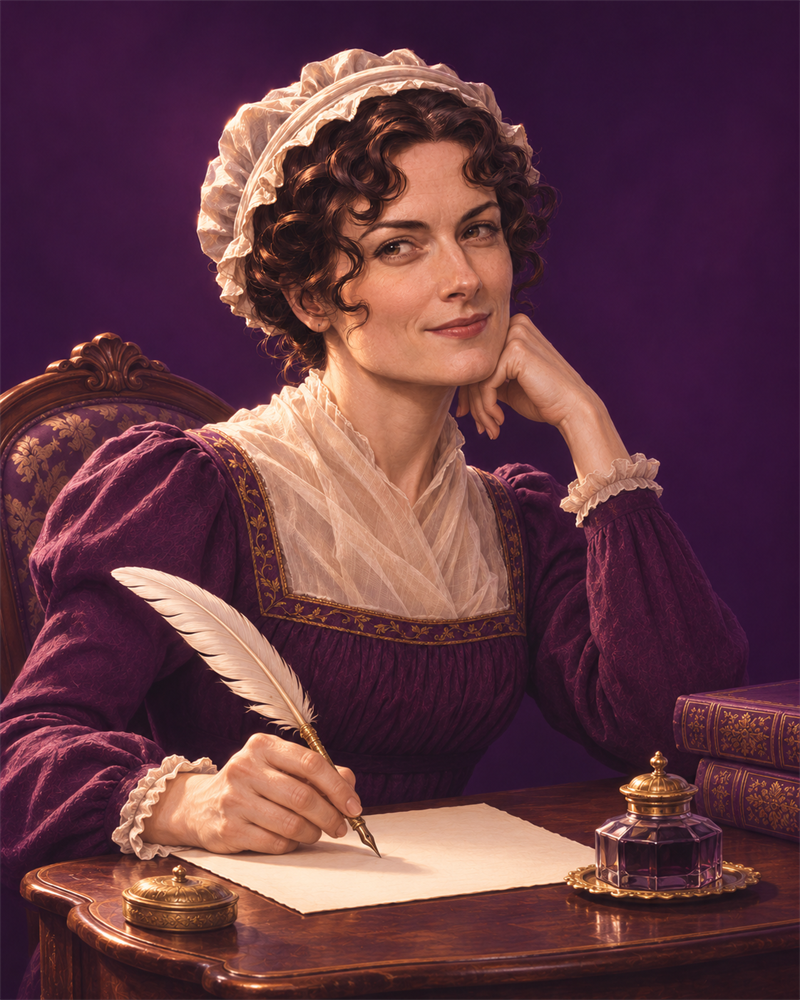
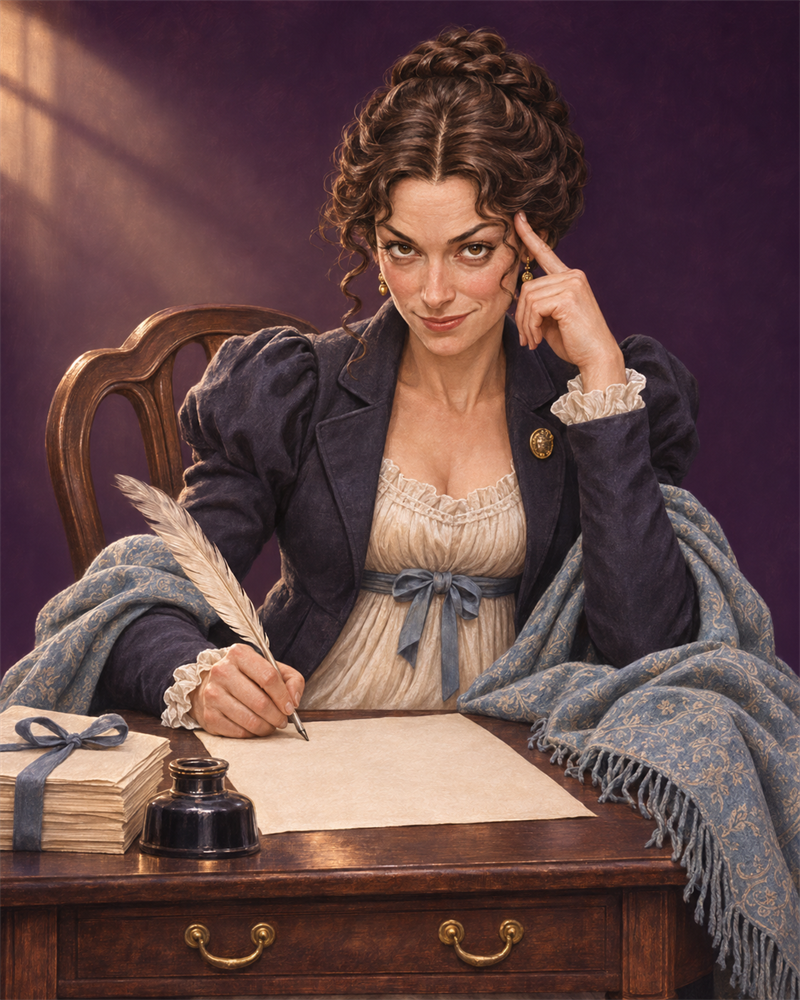
Redesign Austen portraits with distinct stage poses

diff --git a/docs/austen-stages-v2-20261107/prompts.md b/docs/austen-stages-v2-20261107/prompts.md
@@ -1,0 +1,47 @@
+# 제인 오스틴 단계별 일러스트 v2
+
+제작 도구: 내장 image_gen. 캐릭터시트의 얼굴·의상·포즈를 참고하여 개별 생성했습니다.
+
+## portrait-austen.png
+
+Use case: illustration-story.
+Asset type: ONE individual character portrait for a literary fandom app, vertical 4:5, target 800x1000, not a collage.
+Input image 1: CHARACTER IDENTITY, COSTUME AND PAINTING STYLE reference. The six poses all depict the SAME woman. Match her specific recognizable face, adult age around 35, chestnut-dark brown braided updo with curled tendrils, arched expressive brows, warm brown eyes, elegant narrow face and playful intelligent attitude. She has NO CAP.
+Costume invariants: fitted dark navy cropped Regency jacket with puffed shoulders and small plain gold brooch, modest cream empire-waist dress with softly ruffled covered neckline, muted blue ribbon at high waist, pale dusty-blue patterned shawl draped over forearms. Match reference costume, do not use a plum dress or cream bonnet.
+Art: premium semi-realistic hand-painted collectible character illustration, clearly illustrated and subtly stylized rather than photograph; same painterly finish as reference. Dark plum #2A1147 background with violet shadows and restrained warm cream/antique gold light, quieter than the character.
+Composition: one person alone, medium portrait from top of head to hips or knees, entire head visible, face centered horizontally with eye line about 32 percent down. Keep face large enough for small avatar, hands and key prop visible. Head, torso angle, hand gesture and facial expression must have a decisive specific silhouette. Do not default to the same frontal bust and subtle smile.
+Constraints: no text, no letters, numbers or pseudo-writing on any paper or book. No signatures, watermark, logos, panel borders or UI. Natural hands. Fully clothed, non-sexual, friendly intellectual relationship only.
+Scene and expression: Stage 0: guarded literary observer, BEFORE familiarity. Reinterpret the TOP LEFT sheet pose. STANDING in a crisp upright three-quarter pose, left arm holds an OPEN blank dark green book at chest height, right index finger rests thoughtfully on cheek, other fingers gently curled. Chin a little lifted, one eyebrow distinctly raised, closed mouth with skeptical analytical expression and a cool measuring sideways glance toward the viewer. Lips NOT smiling warmly. Shoulders composed and reserved. Torso slightly turned toward image right while head turns to viewer. Soft cool window light. Minimal plain backdrop. Clear book-and-finger silhouette, no desk, no fan, no letter.
+
+## portrait-austen-stage1.png
+
+Use case: illustration-story.
+Asset type: ONE individual character portrait for a literary fandom app, vertical 4:5, target 800x1000, not a collage.
+Input image 1: CHARACTER IDENTITY, COSTUME AND PAINTING STYLE reference. The six poses all depict the SAME woman. Match her specific recognizable face, adult age around 35, chestnut-dark brown braided updo with curled tendrils, arched expressive brows, warm brown eyes, elegant narrow face and playful intelligent attitude. She has NO CAP.
+Costume invariants: fitted dark navy cropped Regency jacket with puffed shoulders and small plain gold brooch, modest cream empire-waist dress with softly ruffled covered neckline, muted blue ribbon at high waist, pale dusty-blue patterned shawl draped over forearms. Match reference costume, do not use a plum dress or cream bonnet.
+Art: premium semi-realistic hand-painted collectible character illustration, clearly illustrated and subtly stylized rather than photograph; same painterly finish as reference. Dark plum #2A1147 background with violet shadows and restrained warm cream/antique gold light, quieter than the character.
+Composition: one person alone, medium portrait from top of head to hips or knees, entire head visible, face centered horizontally with eye line about 32 percent down. Keep face large enough for small avatar, hands and key prop visible. Head, torso angle, hand gesture and facial expression must have a decisive specific silhouette. Do not default to the same frontal bust and subtle smile.
+Constraints: no text, no letters, numbers or pseudo-writing on any paper or book. No signatures, watermark, logos, panel borders or UI. Natural hands. Fully clothed, non-sexual, friendly intellectual relationship only.
+Scene and expression: Stage 1: acknowledges the reader with witty challenge. Reinterpret the BOTTOM LEFT sheet pose. SEATED BEHIND a small dark wooden writing desk, torso leans FORWARD, right hand holding a white feather quill poised over a completely BLANK cream paper at bottom of image, left index finger resting at temple. Head slightly tilted down but eyes look UP DIRECTLY into viewer's eyes under distinctly lifted eyebrows; a mischievous asymmetric smirk, engaging and amused. This is a clear active WRITING POSE, not a standing portrait. Desk foreground, small dark inkwell and a compact stack of blank manuscript leaves with a blue ribbon. Hands readable. A warm diagonal window beam. Navy jacket, cream dress and dusty blue shawl exactly reference. No fan, no book held to chest.
+
+## portrait-austen-stage2.png
+
+Use case: illustration-story.
+Asset type: ONE individual character portrait for a literary fandom app, vertical 4:5, target 800x1000, not a collage.
+Input image 1: CHARACTER IDENTITY, COSTUME AND PAINTING STYLE reference. The six poses all depict the SAME woman. Match her specific recognizable face, adult age around 35, chestnut-dark brown braided updo with curled tendrils, arched expressive brows, warm brown eyes, elegant narrow face and playful intelligent attitude. She has NO CAP.
+Costume invariants: fitted dark navy cropped Regency jacket with puffed shoulders and small plain gold brooch, modest cream empire-waist dress with softly ruffled covered neckline, muted blue ribbon at high waist, pale dusty-blue patterned shawl draped over forearms. Match reference costume, do not use a plum dress or cream bonnet.
+Art: premium semi-realistic hand-painted collectible character illustration, clearly illustrated and subtly stylized rather than photograph; same painterly finish as reference. Dark plum #2A1147 background with violet shadows and restrained warm cream/antique gold light, quieter than the character.
+Composition: one person alone, medium portrait from top of head to hips or knees, entire head visible, face centered horizontally with eye line about 32 percent down. Keep face large enough for small avatar, hands and key prop visible. Head, torso angle, hand gesture and facial expression must have a decisive specific silhouette. Do not default to the same frontal bust and subtle smile.
+Constraints: no text, no letters, numbers or pseudo-writing on any paper or book. No signatures, watermark, logos, panel borders or UI. Natural hands. Fully clothed, non-sexual, friendly intellectual relationship only.
+Scene and expression: Stage 2: a rare glimpse of vulnerable surprise and pride, very different from the poised skeptical observer. Reinterpret the BOTTOM RIGHT sheet pose, SEATED SIDEWAYS in an upholstered Regency chair, shoulders relaxed, turned three-quarter toward image left. Right hand holds an OPENED completely BLANK LETTER at mid chest; left hand presses a plain ribbon-tied manuscript gently to lap. She has just received a thoughtful reader's response: eyebrows lifted at the inner corners, eyes widened and softened, lips slightly parted in a small surprised tender smile, a subtle natural pink flush. Head dips toward the letter, eyes glancing up bashfully from it toward viewer. This must read as unexpectedly touched and a little flustered, not another knowing smirk. More of the chair and shawl resting over arm visible. Soft diffuse warm afternoon light. No quill, no desk, no fan. Non-romantic author-reader appreciation.
+
+## portrait-austen-stage3.png
+
+Use case: illustration-story.
+Asset type: ONE individual character portrait for a literary fandom app, vertical 4:5, target 800x1000, not a collage.
+Input image 1: CHARACTER IDENTITY, COSTUME AND PAINTING STYLE reference. The six poses all depict the SAME woman. Match her specific recognizable face, adult age around 35, chestnut-dark brown braided updo with curled tendrils, arched expressive brows, warm brown eyes, elegant narrow face and playful intelligent attitude. She has NO CAP.
+Costume invariants: fitted dark navy cropped Regency jacket with puffed shoulders and small plain gold brooch, modest cream empire-waist dress with softly ruffled covered neckline, muted blue ribbon at high waist, pale dusty-blue patterned shawl draped over forearms. Match reference costume, do not use a plum dress or cream bonnet.
+Art: premium semi-realistic hand-painted collectible character illustration, clearly illustrated and subtly stylized rather than photograph; same painterly finish as reference. Dark plum #2A1147 background with violet shadows and restrained warm cream/antique gold light, quieter than the character.
+Composition: one person alone, medium portrait from top of head to hips or knees, entire head visible, face centered horizontally with eye line about 32 percent down. Keep face large enough for small avatar, hands and key prop visible. Head, torso angle, hand gesture and facial expression must have a decisive specific silhouette. Do not default to the same frontal bust and subtle smile.
+Constraints: no text, no letters, numbers or pseudo-writing on any paper or book. No signatures, watermark, logos, panel borders or UI. Natural hands. Fully clothed, non-sexual, friendly intellectual relationship only.
+Scene and expression: Stage 3: a trusted friend, open spontaneous delight. Reinterpret the TOP MIDDLE fan pose with clear lively body movement. STANDING and leaning sideways slightly toward the viewer as if sharing a hilarious observation with a close friend, shoulders angled and relaxed, torso turned three-quarter toward image right. Her right hand holds an OPEN pale floral FOLDING FAN raised BESIDE her cheek, NOT covering face or mouth; left hand gathers dusty blue shawl near waist. Eyes crease in laughter, eyebrows relaxed, mouth OPEN in a genuine bright laughing smile with teeth visible, head playfully tilted. Convey companionable humor, no romantic flirtation. Blue shawl lifts in a small dynamic diagonal sweep to make a unique silhouette. Warm golden late-day rimlight, blurred plum drawing-room background. No desk, no book, no letter, no cap. Keep fan low enough that whole face remains unobstructed.

diff --git a/docs/austen-stages-v2-20261107/README.md b/docs/austen-stages-v2-20261107/README.md
@@ -1,0 +1,22 @@
+# 제인 오스틴 초상 v2
+
+기존 4단계 그림의 자세와 표정이 비슷하다는 피드백에 따라, [6포즈 캐릭터시트](../../public/images/jane-austen-character-sheet.png)를 기준으로 4장을 내장 image_gen으로 다시 생성했습니다.
+
+| 단계 | 구분되는 장면 | 감정 |
+|---|---|---|
+| 0 | 서서 책을 들고 뺨에 손가락을 댐 | 경계하며 상대를 관찰 |
+| 1 | 책상 앞으로 몸을 기울이고 깃펜으로 집필 | 장난기 있는 도전과 관심 |
+| 2 | 안락의자에서 독자의 편지를 읽음 | 뜻밖의 감동과 놀람 |
+| 3 | 부채를 들고 숄이 움직이는 자세 | 친구 앞에서 편안하게 활짝 웃음 |
+
+캐릭터시트의 올린 갈색 곱슬머리, 남색 재킷, 크림색 드레스, 푸른 리본·숄을 반영했습니다. 4장의 얼굴과 의상은 유지하면서 실루엣·몸의 방향·시선·손·소품을 바꿨습니다.
+
+`public/images/portrait-austen.png`와 `portrait-austen-stage1.png`부터 `stage3.png`까지 교체했습니다. 이전 제작 기록은 `docs/illustrations-20261107/`와 Git 이력에 남아 있습니다.
+
+- [새 4단계 비교](preview.jpg)
+- [최종 프롬프트](prompts.md)
+- [규격·SHA-256 검증](verification.json)
+
+앱용 PNG는 모두 800×1000입니다. 원본과 축소본을 보며 얼굴·의상 연결, 단계별 자세·표정 차이, 종이와 책의 문자·서명 유무를 육안으로 확인했습니다. 기존 문장 카드와 다른 인물 그림은 변경하지 않았습니다.
+
+반영 후 `npm test`의 93개 테스트와 `npm run build`가 통과했습니다. 빌드 결과의 오스틴 PNG 4장도 제작본과 SHA-256이 일치합니다. 기존 JavaScript 청크 크기 경고는 남아 있습니다.
